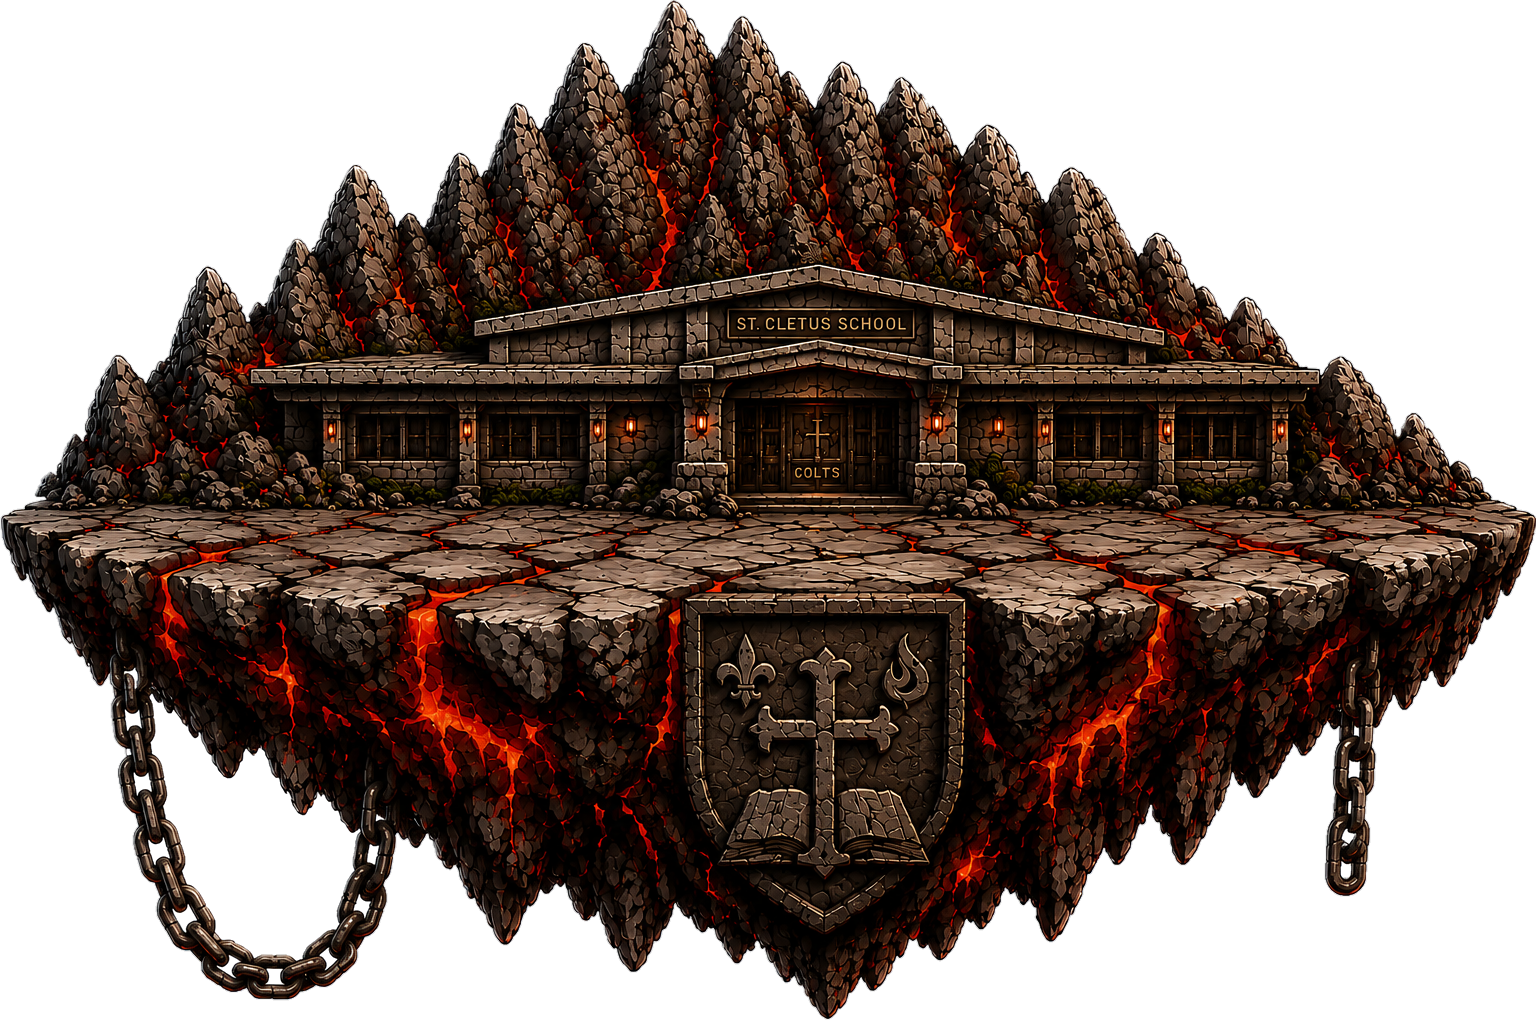
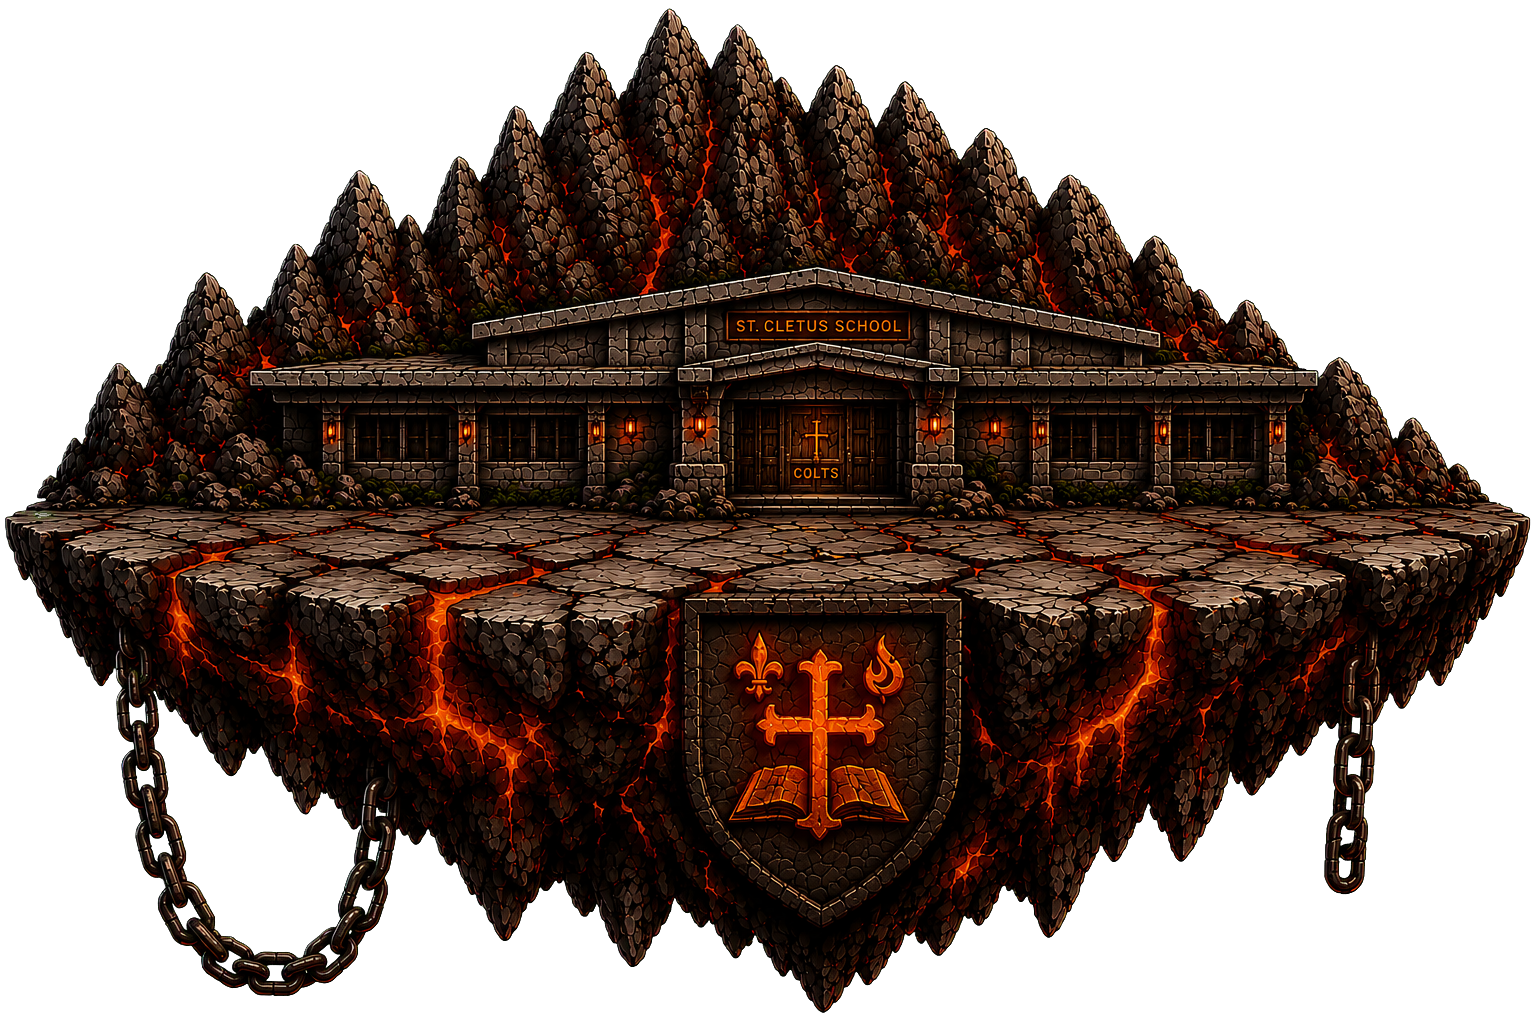
Replace Colt Run platform 17

diff --git a/app.js b/app.js
@@ -2076,6 +2076,7 @@ function startColtRunGame() {
   platformAssetVersions[13] = "20260718-platform14-replace1";
   platformAssetVersions[14] = "20260718-platform15-replace1";
   platformAssetVersions[15] = "20260719-platform16-replace1";
+  platformAssetVersions[16] = "20260719-platform17-replace1";
   platformAssetVersions[17] = "20260718-platform18-replace1";
   platformAssetVersions[20] = "20260718-platform21-replace1";
   const platformSpriteSources = platformAssetVersions.map((version, index) => (

diff --git a/index.html b/index.html
@@ -8,7 +8,7 @@
 </head>
 <body>
   <main id="app" class="app-shell"></main>
-  <script src="app.js?v=20260719-restore-caestus-mix1"></script>
+  <script src="app.js?v=20260719-platform17-replace1"></script>
 </body>
 </html>
 
